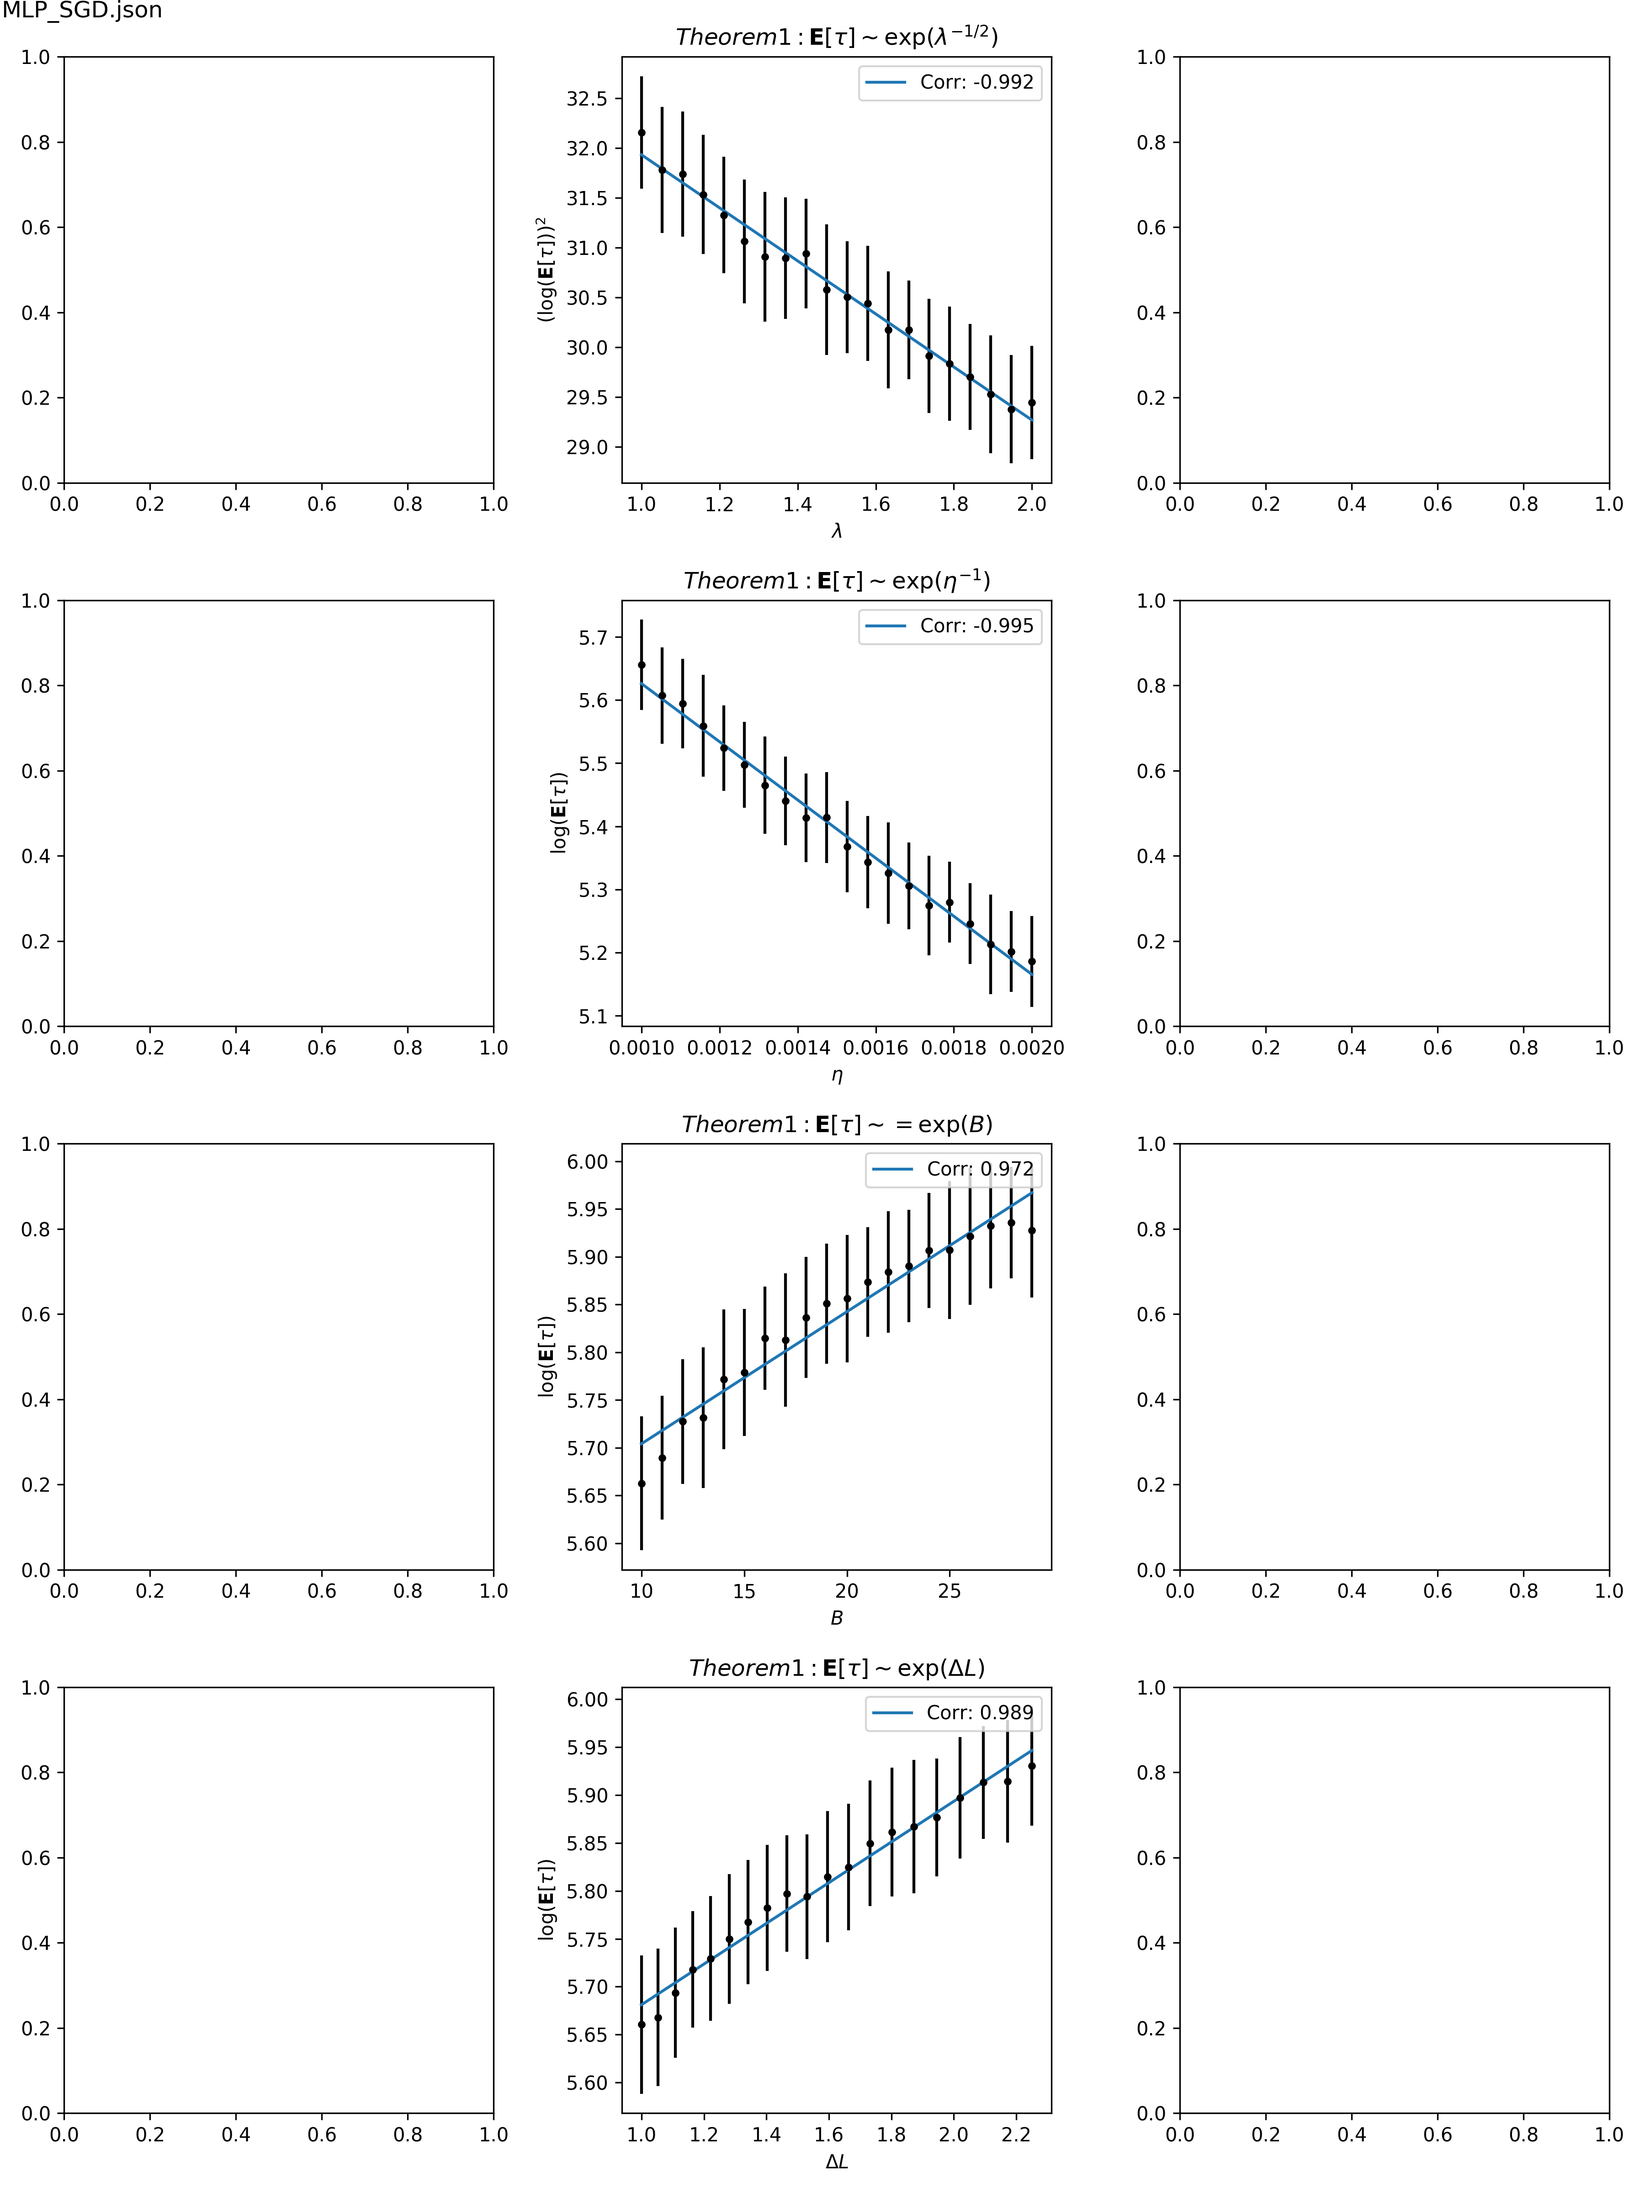
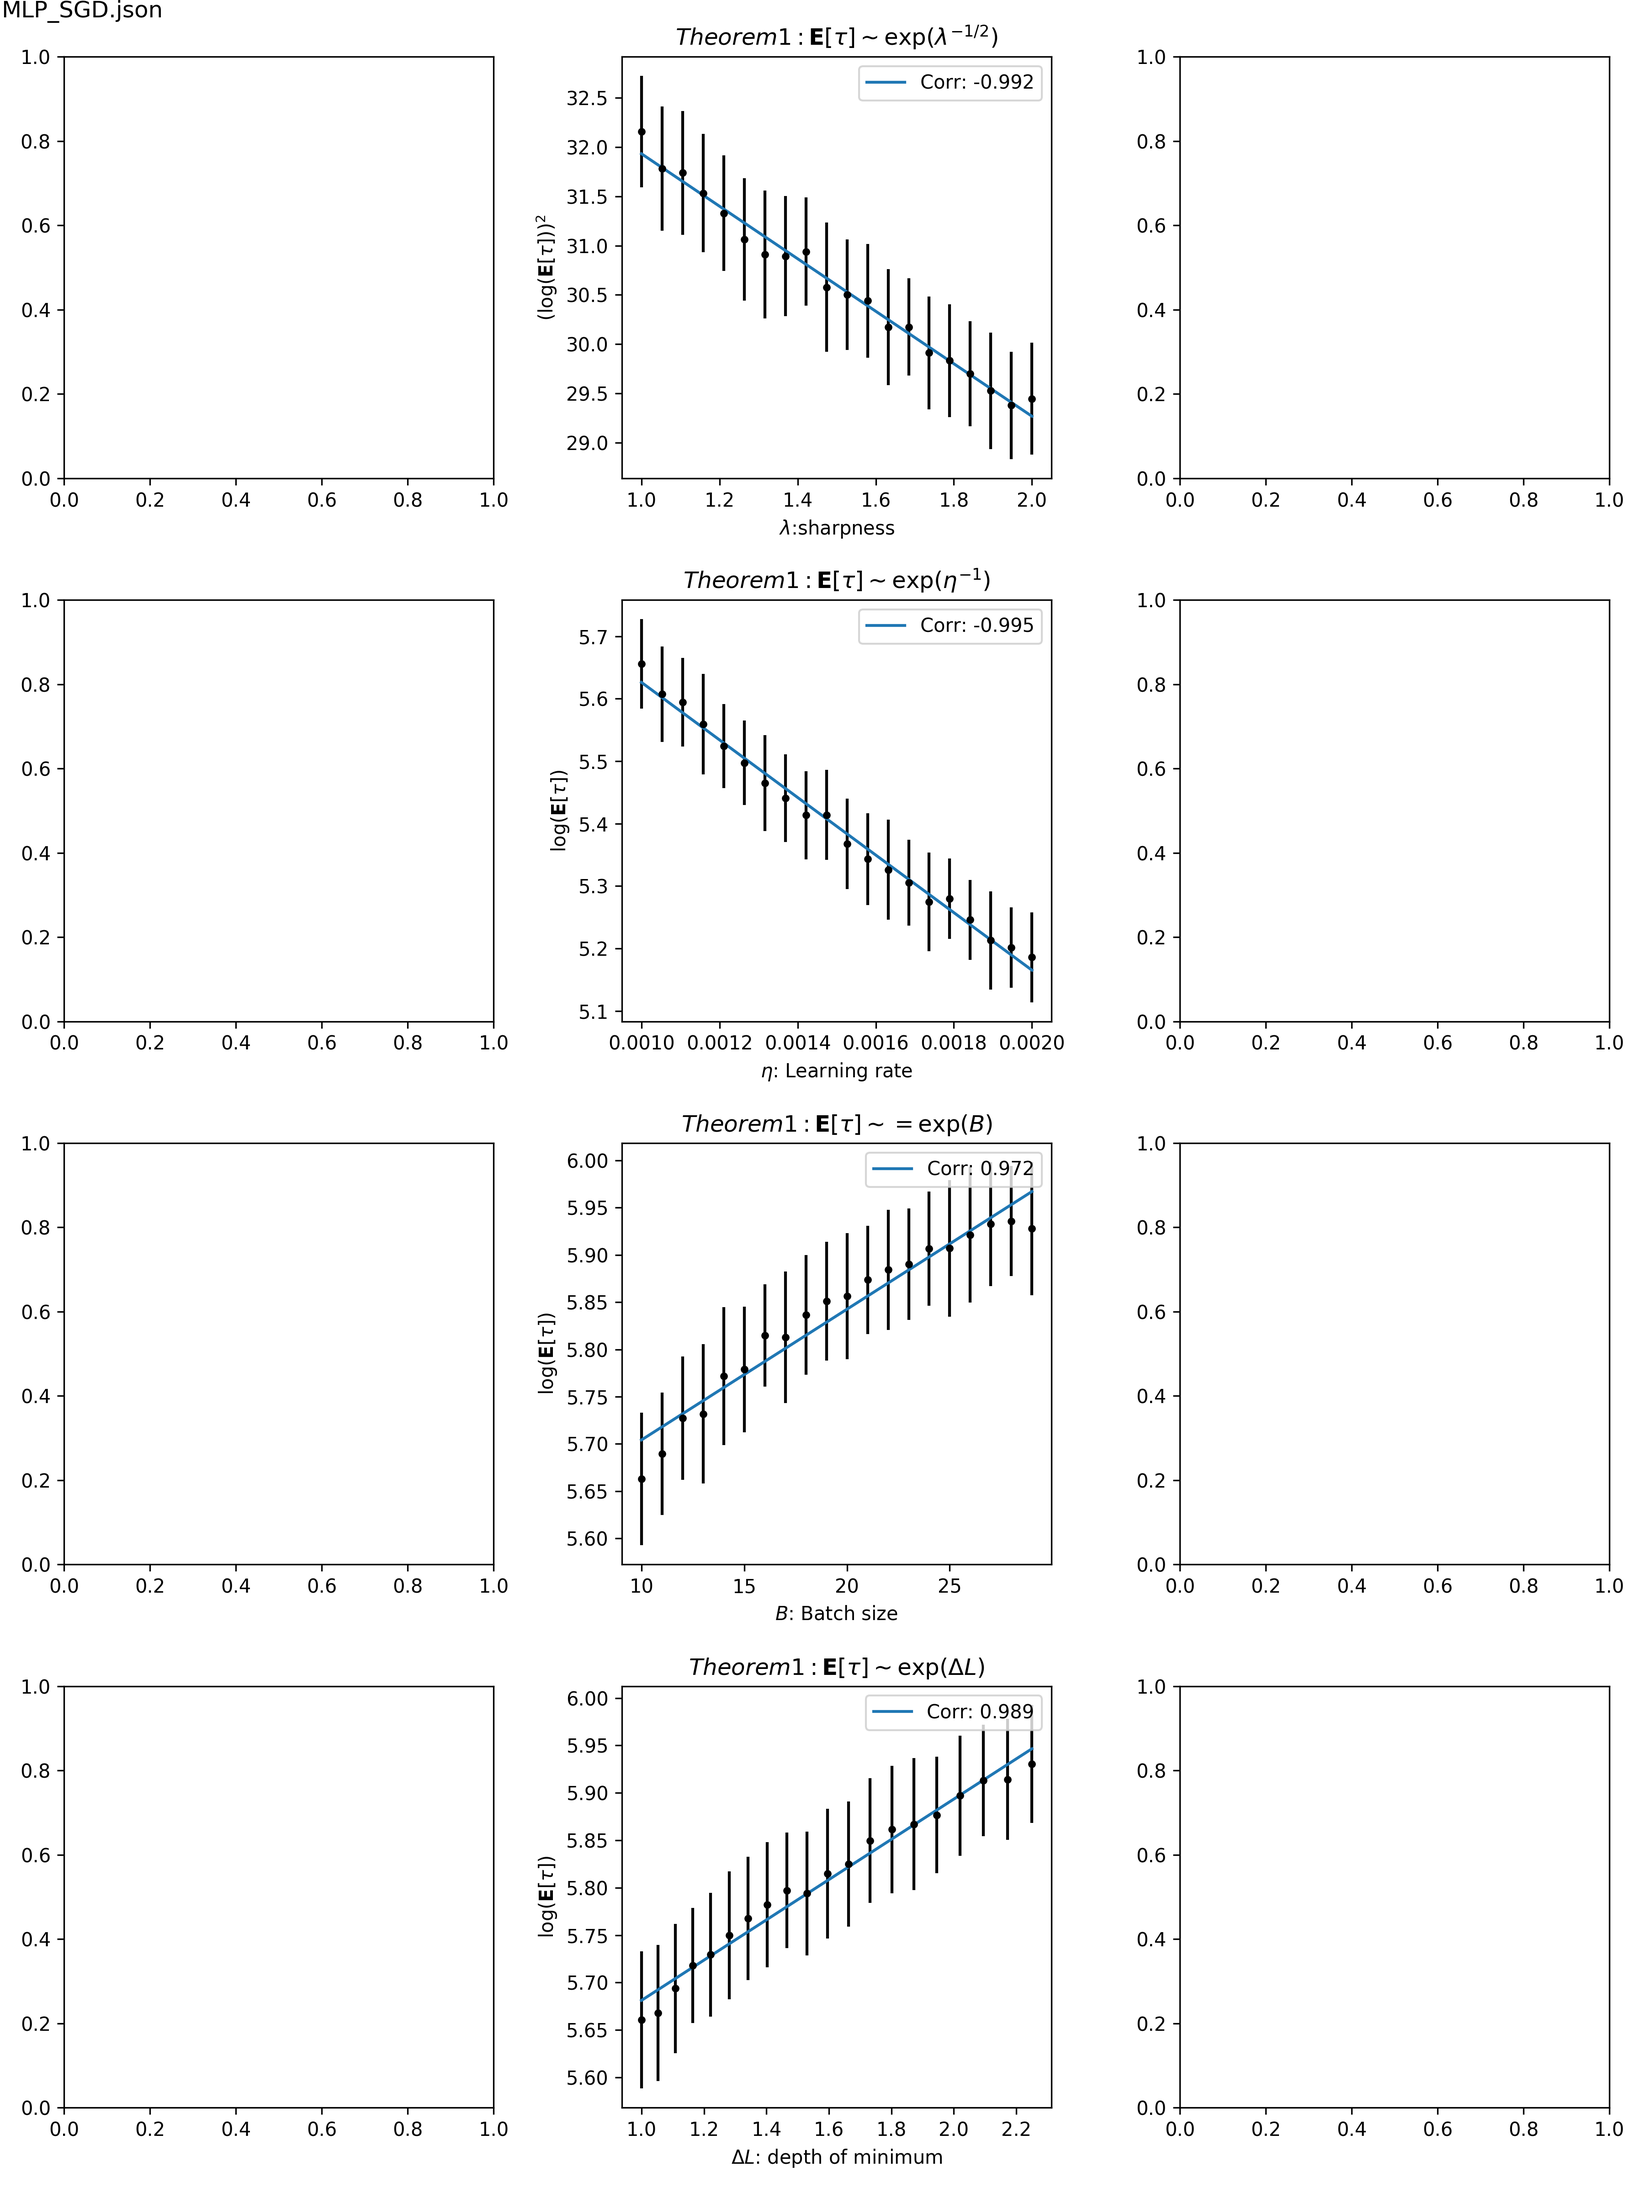
update

diff --git a/draw.py b/draw.py
@@ -25,7 +25,7 @@ def draw(config_fn, sharpness_results, lr_results, batch_size_results, r_results
     coeff_2, _ = stats.pearsonr(x_2, y_2)
     A = np.vstack([x_2, np.ones(len(x_2))]).T
     m_2, c_2 = np.linalg.lstsq(A, y_2, rcond=None)[0]
-    ax1[1].set_xlabel("$\lambda$")
+    ax1[1].set_xlabel("$\lambda$:sharpness")
     ax1[1].set_ylabel("$\left(\log(\mathbf{E}[\\tau])\\right)^2$")
     ax1[1].errorbar(x_2, y_2, yerr=log_std+np.sqrt(2)*np.sqrt(y_2)*log_std, fmt='.k') 
     ax1[1].plot(x_2, m_2*x_2 + c_2)
@@ -39,7 +39,7 @@ def draw(config_fn, sharpness_results, lr_results, batch_size_results, r_results
     coeff_2, _ = stats.pearsonr(x_2, y_2)
     A = np.vstack([x_2, np.ones(len(x))]).T
     m_2, c_2 = np.linalg.lstsq(A, y_2, rcond=None)[0]
-    ax2[1].set_xlabel("$\eta$")
+    ax2[1].set_xlabel("$\eta$: Learning rate")
     ax2[1].set_ylabel("$\log(\mathbf{E}[\\tau])$")
     ax2[1].errorbar(x_2, y_2, yerr=log_std, fmt='.k') 
     ax2[1].plot(x_2, m_2*x_2 + c_2)
@@ -50,22 +50,13 @@ def draw(config_fn, sharpness_results, lr_results, batch_size_results, r_results
     # Batch size
     (x, y, std, log_std, _) = batch_size_results
     #
-    # coeff, _ = stats.pearsonr(x, y)
-    # A = np.vstack([x, np.ones(len(x))]).T
-    # m, c = np.linalg.lstsq(A, y, rcond=None)[0]
-    # ax3[0].set_xlabel("batch_size")
-    # ax3[0].set_ylabel("exit time")
-    # ax3[0].errorbar(x, y, yerr=std, fmt='.k') 
-    # ax3[0].plot(x, m*x + c) 
-    # # ax3[0].set_ylim(bottom=0, top=None)
-    # ax3[0].legend([f'Corr: {coeff:.3g}'])
     # Log
     x_2 = x
     y_2 = np.log(y)
     coeff_2, _ = stats.pearsonr(x_2, y_2)
     A = np.vstack([x_2, np.ones(len(x))]).T
     m_2, c_2 = np.linalg.lstsq(A, y_2, rcond=None)[0]
-    ax3[1].set_xlabel("$B$")
+    ax3[1].set_xlabel("$B$: Batch size")
     ax3[1].set_ylabel("$\log(\mathbf{E}[\\tau])$")
     ax3[1].errorbar(x_2, y_2, yerr=log_std, fmt='.k') 
     ax3[1].plot(x_2, m_2*x_2 + c_2)
@@ -75,22 +66,13 @@ def draw(config_fn, sharpness_results, lr_results, batch_size_results, r_results
     # R
     (x, y, std, log_std, _) = r_results
     #
-    # coeff, _ = stats.pearsonr(x, y)
-    # A = np.vstack([x, np.ones(len(x))]).T
-    # m, c = np.linalg.lstsq(A, y, rcond=None)[0]
-    # ax4[0].set_xlabel("r")
-    # ax4[0].set_ylabel("exit time")
-    # ax4[0].errorbar(x, y, yerr=std, fmt='.k') 
-    # ax4[0].plot(x, m*x + c) 
-    # # ax4[0].set_ylim(bottom=0, top=None)
-    # ax4[0].legend([f'Corr: {coeff:.3g}'])
     # Log
     x_2 = x**2
     y_2 = np.log(y)
     coeff_2, _ = stats.pearsonr(x_2, y_2)
     A = np.vstack([x_2, np.ones(len(x))]).T
     m_2, c_2 = np.linalg.lstsq(A, y_2, rcond=None)[0]
-    ax4[1].set_xlabel("$\Delta L$")
+    ax4[1].set_xlabel("$\Delta L$: depth of minimum")
     ax4[1].set_ylabel("$\log(\mathbf{E}[\\tau])$")
     ax4[1].errorbar(x_2, y_2, yerr=log_std, fmt='.k') 
     ax4[1].plot(x_2, m_2*x_2 + c_2)
